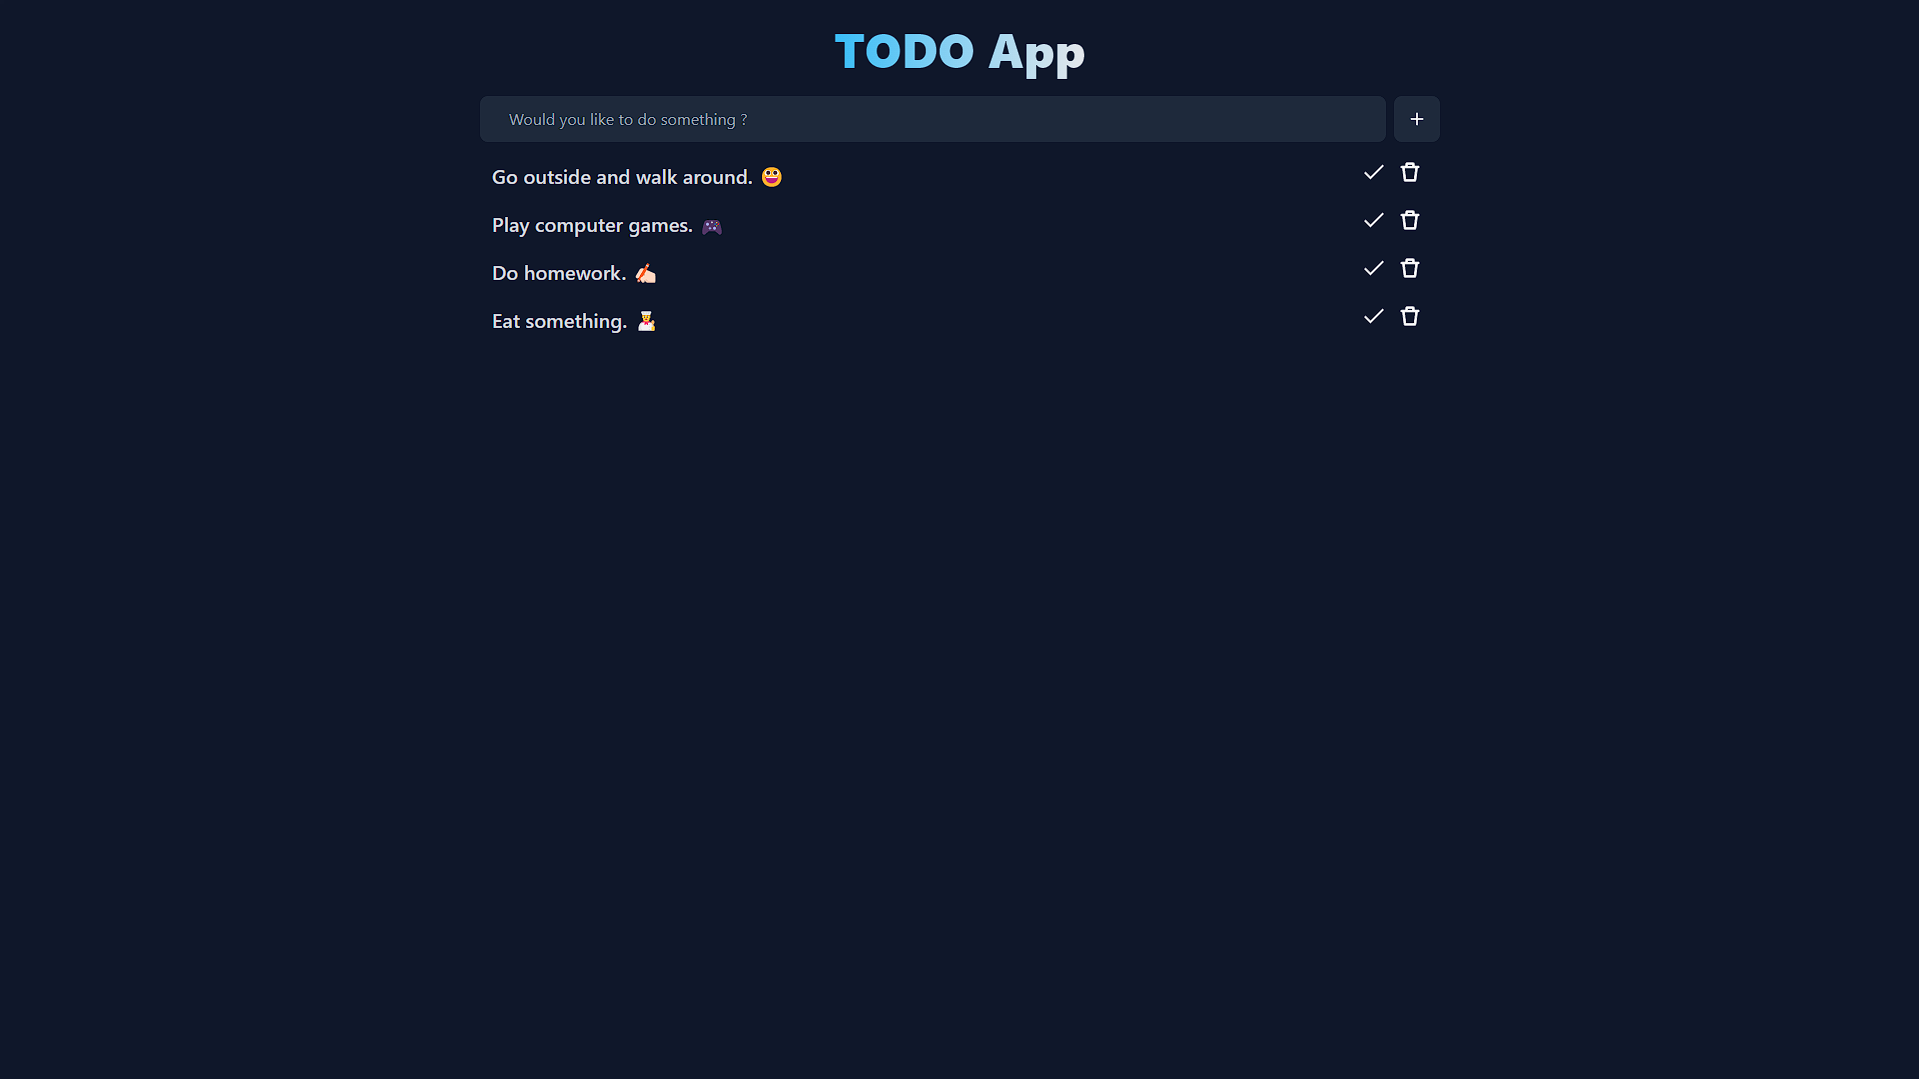
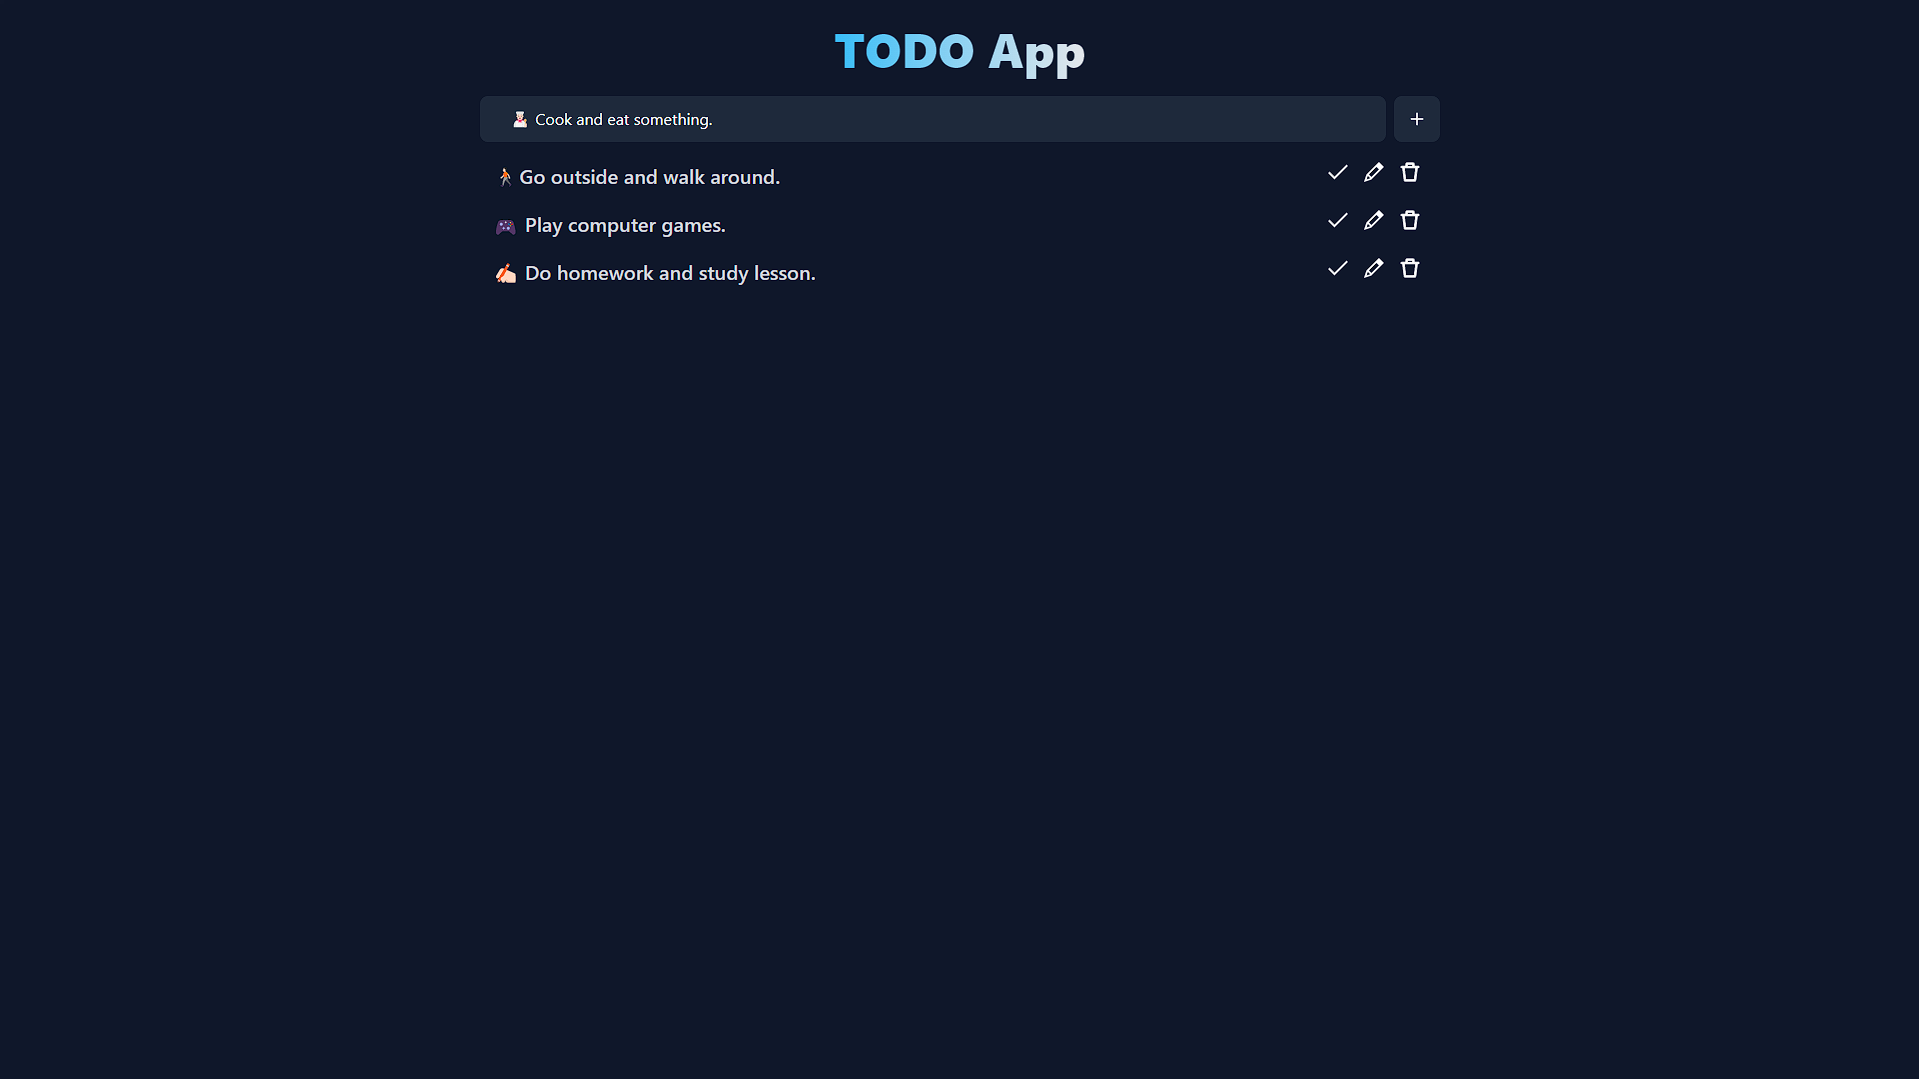
New "edit todo" feature added.
Now you can edit todo pretty easy.

diff --git a/src/components/TodoShow.jsx b/src/components/TodoShow.jsx
@@ -1,10 +1,26 @@
 import { useState } from "react"
 
-function TodoShow({todo, onDelete}) {
+function TodoShow({ todo, onDelete, onEdit }) {
     const [completed, setCompleted] = useState(false)
+    const [editMode, setEditMode] = useState(false)
+    const [newTodo, setTodo] = useState(todo.todo)
 
     const handleDeleteClick = () => {
         onDelete(todo.id)
+    }
+
+    const handleEditClick = () => {
+        setEditMode(!editMode)
+    }
+
+    const handleEditTodoChange = (event) => {
+        setTodo(event.target.value)
+    }
+
+    const handleEditSubmit = (event) => {
+        event.preventDefault()
+        onEdit(todo.id,newTodo)
+        setEditMode(false)
     }
 
     const handleCompleteClick = () => {
@@ -15,15 +31,43 @@ function TodoShow({todo, onDelete}) {
         <div className="grid grid-cols-12">
             <div className="col-start-2 col-end-12 md:col-start-3 md:col-end-11 xl:col-start-4 xl:col-end-10">
                 <div className="Todo-Show py-5 px-3">
-                {completed ? (<p className="float-left text-lg md:text-xl lg:text-xl font-medium text-gray-400 line-through">{todo.todo}</p>) : (<p className="float-left text-lg md:text-xl lg:text-xl font-medium text-gray-300">{todo.todo}</p>)}
-                    <button onClick={handleDeleteClick} className="float-right px-2 text-sm font-medium">
-                        <svg fill="#ffffff" className="w-5 h-5" viewBox="0 0 24 24" xmlns="http://www.w3.org/2000/svg" stroke="#ffffff"><g id="SVGRepo_bgCarrier" strokeWidth="0"></g><g id="SVGRepo_tracerCarrier" strokeLinecap="round" strokeLinejoin="round"></g><g id="SVGRepo_iconCarrier"><path d="M22,5H17V2a1,1,0,0,0-1-1H8A1,1,0,0,0,7,2V5H2A1,1,0,0,0,2,7H3.117L5.008,22.124A1,1,0,0,0,6,23H18a1,1,0,0,0,.992-.876L20.883,7H22a1,1,0,0,0,0-2ZM9,3h6V5H9Zm8.117,18H6.883L5.133,7H18.867Z"></path></g></svg>
-                        <span className="sr-only">Delete</span>
-                    </button>
-                    {completed ? (<></>) : (                    <button onClick={handleCompleteClick} className="float-right px-2 text-sm font-medium">
-                        <svg fill="#ffffff" className="w-5 h-5" version="1.1" id="Capa_1" xmlns="http://www.w3.org/2000/svg" xmlnsXlink="http://www.w3.org/1999/xlink" viewBox="0 0 335.765 335.765" xmlSpace="preserve"><g id="SVGRepo_bgCarrier" strokeWidth="0"></g><g id="SVGRepo_tracerCarrier" strokeLinecap="round" strokeLinejoin="round"></g><g id="SVGRepo_iconCarrier"> <g> <g> <polygon points="311.757,41.803 107.573,245.96 23.986,162.364 0,186.393 107.573,293.962 335.765,65.795 "></polygon> </g> </g> </g></svg>
-                        <span className="sr-only">Okay</span>
-                    </button>)}
+                    {editMode ? (
+                        <form onSubmit={handleEditSubmit} className="flex items-center">
+                            <label htmlFor="editTodo" className="sr-only">Search</label>
+                            <div className="relative w-full pr-3">
+                                <input type="text" onChange={handleEditTodoChange} value={newTodo} id="editTodo" className="bg-transparent text-m rounded-lg border border-slate-800 font-medium text-gray-300 focus:ring-blue-500 focus:border-blue-500 block w-full pl-5 p-2.5" required />
+                            </div>
+                            <button type="submit" className="float-right px-2 text-sm font-medium">
+                                <svg fill="#ffffff" className="w-5 h-5" viewBox="0 -0.5 21 21" version="1.1" xmlns="http://www.w3.org/2000/svg" xmlnsXlink="http://www.w3.org/1999/xlink"><g id="SVGRepo_bgCarrier" strokeWidth="0"></g><g id="SVGRepo_tracerCarrier" strokeLinecap="round" strokeLinejoin="round"></g><g id="SVGRepo_iconCarrier"> <g id="Page-1" stroke="none" strokeWidth="1" fill="none" fillRule="evenodd"> <g id="Dribbble-Light-Preview" transform="translate(-419.000000, -640.000000)" fill="#ffffff"> <g id="icons" transform="translate(56.000000, 160.000000)"> <path d="M370.21875,484 C370.21875,483.448 370.68915,483 371.26875,483 C371.84835,483 372.31875,483.448 372.31875,484 C372.31875,484.552 371.84835,485 371.26875,485 C370.68915,485 370.21875,484.552 370.21875,484 L370.21875,484 Z M381.9,497 C381.9,497.552 381.4296,498 380.85,498 L379.8,498 L379.8,494 C379.8,492.895 378.86025,492 377.7,492 L369.3,492 C368.13975,492 367.2,492.895 367.2,494 L367.2,498 L366.15,498 C365.5704,498 365.1,497.552 365.1,497 L365.1,487.044 C365.1,486.911 365.15565,486.784 365.2533,486.691 L367.2,484.837 L367.2,486 C367.2,487.105 368.13975,488 369.3,488 L377.7,488 C378.86025,488 379.8,487.105 379.8,486 L379.8,482 L380.85,482 C381.4296,482 381.9,482.448 381.9,483 L381.9,497 Z M377.7,498 L369.3,498 L369.3,495 C369.3,494.448 369.7704,494 370.35,494 L376.65,494 C377.2296,494 377.7,494.448 377.7,495 L377.7,498 Z M369.3,482.837 L370.17885,482 L377.7,482 L377.7,485 C377.7,485.552 377.2296,486 376.65,486 L370.35,486 C369.7704,486 369.3,485.552 369.3,485 L369.3,482.837 Z M381.9,480 L369.7347,480 C369.45645,480 369.18975,480.105 368.99235,480.293 L363.30765,485.707 C363.11025,485.895 363,486.149 363,486.414 L363,498 C363,499.105 363.93975,500 365.1,500 L381.9,500 C383.06025,500 384,499.105 384,498 L384,482 C384,480.895 383.06025,480 381.9,480 L381.9,480 Z" id="save_item-[#1411]"> </path> </g> </g> </g> </g></svg>
+                                <span className="sr-only">Save</span>
+                            </button>
+                        </form>) : (<></>)}
+                    {!editMode && !completed ? (
+                        <div className="alt">
+                            <p className="float-left text-lg md:text-xl lg:text-xl font-medium text-gray-300">{todo.todo}</p>
+                            <button onClick={handleDeleteClick} className="float-right px-2 text-sm font-medium">
+                                <svg fill="#ffffff" className="w-5 h-5" viewBox="0 0 24 24" xmlns="http://www.w3.org/2000/svg" stroke="#ffffff"><g id="SVGRepo_bgCarrier" strokeWidth="0"></g><g id="SVGRepo_tracerCarrier" strokeLinecap="round" strokeLinejoin="round"></g><g id="SVGRepo_iconCarrier"><path d="M22,5H17V2a1,1,0,0,0-1-1H8A1,1,0,0,0,7,2V5H2A1,1,0,0,0,2,7H3.117L5.008,22.124A1,1,0,0,0,6,23H18a1,1,0,0,0,.992-.876L20.883,7H22a1,1,0,0,0,0-2ZM9,3h6V5H9Zm8.117,18H6.883L5.133,7H18.867Z"></path></g></svg>
+                                <span className="sr-only">Delete</span>
+                            </button>
+                            <button onClick={handleEditClick} className="float-right px-2 text-sm font-medium">
+                                <svg fill="#ffffff" className="w-5 h-5" viewBox="0 0 32 32" version="1.1" xmlns="http://www.w3.org/2000/svg"><g id="SVGRepo_bgCarrier" strokeWidth="0"></g><g id="SVGRepo_tracerCarrier" strokeLinecap="round" strokeLinejoin="round"></g><g id="SVGRepo_iconCarrier"> <path d="M0 32l12-4 20-20-8-8-20 20zM4 28l2.016-5.984 4 4zM8 20l12-12 4 4-12 12z"></path> </g></svg>
+                                <span className="sr-only">Edit</span>
+                            </button>
+                            <button onClick={handleCompleteClick} className="float-right px-2 text-sm font-medium">
+                                <svg fill="#ffffff" className="w-5 h-5" version="1.1" id="Capa_1" xmlns="http://www.w3.org/2000/svg" xmlnsXlink="http://www.w3.org/1999/xlink" viewBox="0 0 335.765 335.765" xmlSpace="preserve"><g id="SVGRepo_bgCarrier" strokeWidth="0"></g><g id="SVGRepo_tracerCarrier" strokeLinecap="round" strokeLinejoin="round"></g><g id="SVGRepo_iconCarrier"> <g> <g> <polygon points="311.757,41.803 107.573,245.96 23.986,162.364 0,186.393 107.573,293.962 335.765,65.795 "></polygon> </g> </g> </g></svg>
+                                <span className="sr-only">Okay</span>
+                            </button>
+                        </div>
+                    ) : (<></>)}
+                    {!editMode && completed ? (
+                        <div className="alt">
+                            <p className="float-left text-lg md:text-xl lg:text-xl font-medium text-gray-400 line-through">{todo.todo}</p>
+                            <button onClick={handleDeleteClick} className="float-right px-2 text-sm font-medium">
+                                <svg fill="#ffffff" className="w-5 h-5" viewBox="0 0 24 24" xmlns="http://www.w3.org/2000/svg" stroke="#ffffff"><g id="SVGRepo_bgCarrier" strokeWidth="0"></g><g id="SVGRepo_tracerCarrier" strokeLinecap="round" strokeLinejoin="round"></g><g id="SVGRepo_iconCarrier"><path d="M22,5H17V2a1,1,0,0,0-1-1H8A1,1,0,0,0,7,2V5H2A1,1,0,0,0,2,7H3.117L5.008,22.124A1,1,0,0,0,6,23H18a1,1,0,0,0,.992-.876L20.883,7H22a1,1,0,0,0,0-2ZM9,3h6V5H9Zm8.117,18H6.883L5.133,7H18.867Z"></path></g></svg>
+                                <span className="sr-only">Delete</span>
+                            </button>
+                        </div>
+                    ) : (<></>)}
                 </div>
             </div>
         </div>

diff --git a/src/App.jsx b/src/App.jsx
@@ -21,10 +21,23 @@ function App() {
     setTodos(afterProcessTodos)
   }
 
+  const editTodoById = (id, newTodo) => {
+    const updatedTodos = todos.map((todo) => {
+      if (todo.id === id){
+        return {
+          id,
+          todo:newTodo
+        }
+      }
+      return todo
+    })
+    setTodos(updatedTodos)
+  }
+
   return (
     <div className="container-fluid">
       <TodoCreate onCreate={createTodo}/>
-      <TodoList todos={todos} onDelete={deleteTodoById}/>
+      <TodoList todos={todos} onDelete={deleteTodoById} onEdit={editTodoById}/>
     </div>
   )
 }

diff --git a/src/components/TodoList.jsx b/src/components/TodoList.jsx
@@ -1,11 +1,11 @@
 import TodoShow from './TodoShow'
 
-function TodoList({todos, onDelete}) {
+function TodoList({todos, onDelete, onEdit}) {
   return (
     <div className="columns is-multiline">
     {todos.map((todo,index) => {
       return (
-        <TodoShow key={index} todo={todo} onDelete={onDelete} />
+        <TodoShow key={index} todo={todo} onDelete={onDelete} onEdit={onEdit}/>
       )
     })}
   </div>

diff --git a/README.md b/README.md
@@ -3,6 +3,7 @@
 ### Screenshot
 ![Example Image 1](1.png)
 ![Example Image 2](2.png)
+![Example Image 3](3.png)
 
 
 ### Setup Project
@@ -13,10 +14,4 @@ npm install
 ### Run Project
 ```
 npm run dev
-```
-
-```
-MIT License
-
-Copyright (c) 2023 Samet Ozturk
 ```
